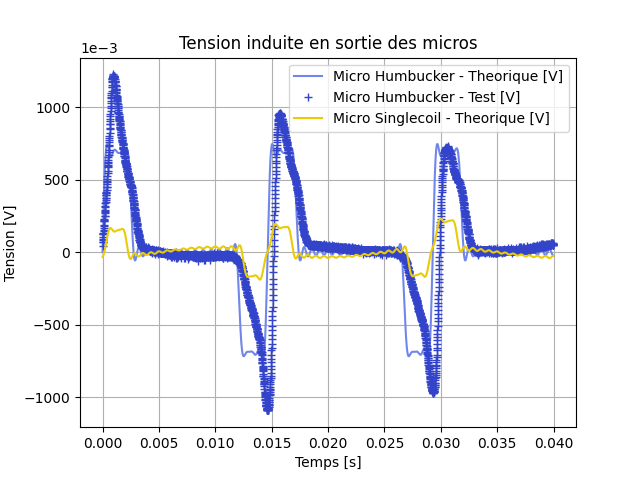
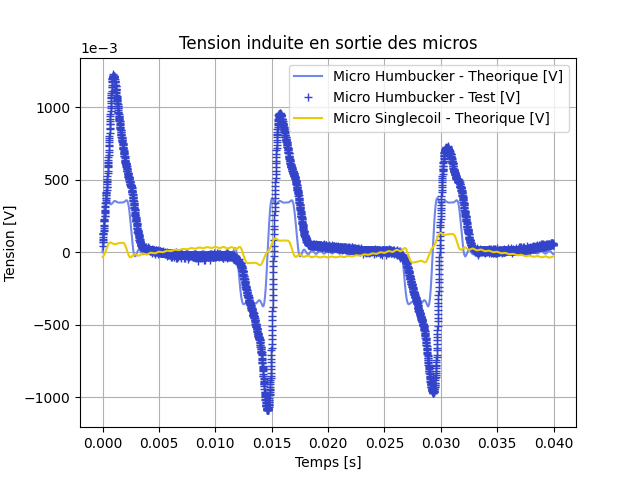
test 18-11

diff --git a/Python/Code/Modele_fem.py b/Python/Code/Modele_fem.py
@@ -30,7 +30,7 @@ x1 = 0.140
 x2 = 0.160
 L = 0.845
 mu = 9*10**(-3)
-dBdy = 0.1             #A verifier ???
+dBdy = 0.05             #A verifier ???
 #* Parametre Micros
 d = 6.3*10**(-5)
 S = 7*10**(-4)
@@ -180,7 +180,7 @@ if __name__ == "__main__":
     L_lignes = doc.readlines()
     Test_temps_h = []
     Test_h = []
-    for i in range(53195, 70000):
+    for i in range(53195, 93195):
         values = L_lignes[i].strip().split("\t")
         values = [float(v.replace("\n", "")) for v in values]
         Test_temps_h.append(values[0])
@@ -216,7 +216,7 @@ if __name__ == "__main__":
     L_lignes = doc.readlines()
     Test_temps_tot = []
     Test_h_tot = []
-    for i in range(34360, 51165):
+    for i in range(34360, 74360):
         values = L_lignes[i].strip().split("\t")
         values = [float(v.replace("\n", "")) for v in values]
         Test_temps_tot.append(values[0])
@@ -311,7 +311,7 @@ if __name__ == "__main__":
         fft_h_test_amp = 2 * np.abs(fft_h_test) / Ne_fft
         fft_h_test_amp[0] /= 2
 
-        freqs = np.fft.fftfreq(16805, 1/fs_fft)
+        freqs = np.fft.fftfreq(40000, 1/fs_fft)
         mask = 0 <= freqs
         freqs = freqs[mask]
         mask2 = freqs <= 800
@@ -324,12 +324,12 @@ if __name__ == "__main__":
         fft_h_test_amp = fft_h_test_amp[mask]
         fft_h_test_amp = fft_h_test_amp[mask2]
         
-        """
-        max_amp = np.max([np.max(fft_h_amp), np.max(fft_s_amp), np.max(fft_h_test_amp)])
-        fft_h_amp = fft_h_amp / max_amp
-        fft_s_amp = fft_s_amp / max_amp
-        fft_h_test_amp = fft_h_test_amp / max_amp
-        """
+        
+        max_amp_h, max_amp_s, max_amp_test_h = np.max(fft_h_amp), np.max(fft_s_amp), np.max(fft_h_test_amp)
+        fft_h_amp = fft_h_amp / max_amp_h
+        fft_s_amp = fft_s_amp / max_amp_s
+        fft_h_test_amp = fft_h_test_amp / max_amp_test_h
+        
         print("FFT calculees.")
 
         print("Affichage des FFT...")
@@ -337,16 +337,28 @@ if __name__ == "__main__":
         plt.figure(figsize=(6,5))
         plt.plot(freqs, fft_h_amp, color=Color_h, label="Micro Humbucker - Theorique")
         plt.plot(freqs, fft_h_test_amp, "+", color=Color_h_test, label="Micro Humbucker - Test")
-        plt.plot(freqs, fft_s_amp, color=Color_s, label="Micro Singlecoil - Theorique")
         plt.title(Title)
         plt.legend()
         plt.xlabel("Frequence (Hz)")
         plt.ylabel("Tension normalisee")
         plt.grid(True)
         plt.gca().ticklabel_format(axis='y', style='sci', scilimits=(-3, -3))
-        plt.savefig("Python/Exports/00-FFT.png")
+        plt.savefig("Python/Exports/00-FFT_h.png")
         plt.close()
-        print("FFT sauvegardees sous Python/Exports/00-FFT.png.")
+        print("FFT sauvegardees sous Python/Exports/00-FFT_h.png.")
+        
+        plt.figure(figsize=(6,5))
+        plt.plot(freqs, fft_s_amp, color=Color_s, label="Micro Singlecoil - Theorique")
+        #plt.plot(freqs, fft_h_test_amp, "+", color=Color_h_test, label="Micro Humbucker - Test")
+        plt.title(Title)
+        plt.legend()
+        plt.xlabel("Frequence (Hz)")
+        plt.ylabel("Tension normalisee")
+        plt.grid(True)
+        plt.gca().ticklabel_format(axis='y', style='sci', scilimits=(-3, -3))
+        plt.savefig("Python/Exports/00-FFT_s.png")
+        plt.close()
+        print("FFT sauvegardees sous Python/Exports/00-FFT_s.png.")
 
     print("-" * 100)
     print("\nAffichage des courbes...")
@@ -390,7 +402,7 @@ if __name__ == "__main__":
     plt.title("Tension induite en sortie des micros - Parasite seul")
     plt.xlabel("Temps [s]")
     plt.ylabel("Tension [V]")
-    plt.ylim(-0.8, 0.8)
+    plt.ylim(-0.5, 0.5)
     plt.grid()
     plt.legend()
     plt.savefig("Python/Exports/02-Humbucker_parasite.png")
